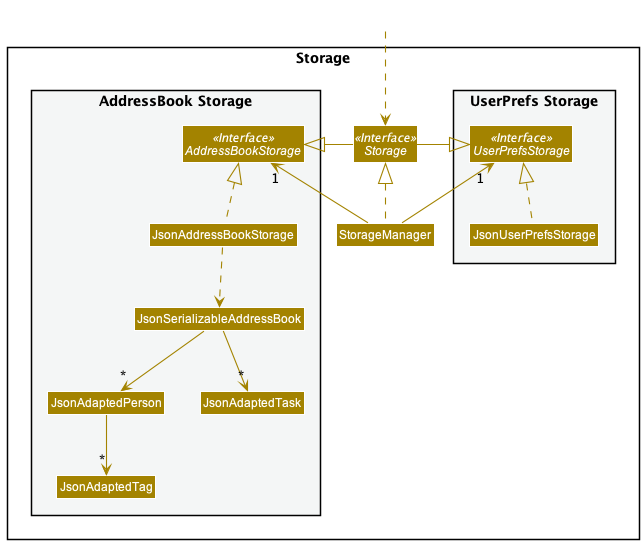
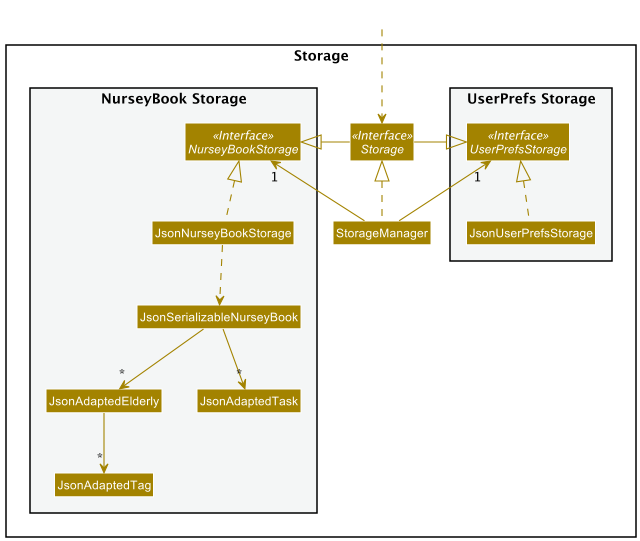
Update DG diagrams

Changed region(s): [[0.0, 0.0591, 1.0, 1.0]]

diff --git a/src/main/java/nurseybook/model/task/Task.java b/src/main/java/nurseybook/model/task/Task.java
@@ -8,8 +8,6 @@ import java.util.Collections;
 import java.util.HashSet;
 import java.util.Set;
 
-import nurseybook.model.NurseyBook;
-import nurseybook.model.person.Elderly;
 import nurseybook.model.person.Name;
 import nurseybook.model.task.Recurrence.RecurrenceType;
 
@@ -262,20 +260,6 @@ public abstract class Task implements Comparable<Task> {
     }
 
     /**
-     * Returns set of elderly objects related to this task.
-     *
-     * @param book                      nursey book that stores this task
-     * @return                          task description
-     */
-    public Set<Elderly> getRelatedPeople(NurseyBook book) {
-        Set<Elderly> relatedPeople = new HashSet<>();
-        for (Name name: relatedNames) {
-            relatedPeople.add(book.getElderly(name));
-        }
-        return relatedPeople;
-    }
-
-    /**
      * Returns true if the task is past the current date and time, and it is a recurring task.
      *
      * @return true if its past and is a recurring task
@@ -336,9 +320,7 @@ public abstract class Task implements Comparable<Task> {
                 .append(getDateTime());
         if (!relatedNames.isEmpty()) {
             builder.append("; People: ");
-            relatedNames.forEach(name -> {
-                builder.append(name + " ");
-            });
+            relatedNames.forEach(name -> builder.append(name + " "));
         }
         return builder.toString();
     }

diff --git a/docs/DeveloperGuide.md b/docs/DeveloperGuide.md
@@ -136,7 +136,9 @@ which is also exposed to outsiders as an unmodifiable `ObservableList<Task>`.
 More details regarding `Person`, `Elderly`, `Nok` and `Task` objects.
 
 
-<div markdown="span" class="alert alert-info">:information_source: **Note:** An alternative (arguably, a more OOP) model is given below. It has a `Tag` list in the `AddressBook`, which `Elderly` references. This allows `AddressBook` to only require one `Tag` object per unique tag, instead of each `Elderly` needing their own `Tag` objects.<br>
+<div markdown="span" class="alert alert-info">
+
+:information_source: **Note:** An alternative (arguably, a more OOP) model is given below. It has a `Tag` list in the `AddressBook`, which `Elderly` references. This allows `AddressBook` to only require one `Tag` object per unique tag, instead of each `Elderly` needing their own `Tag` objects.<br>
 
 <img src="images/BetterModelClassDiagram.png" width="250" />
 
@@ -150,8 +152,8 @@ More details regarding `Person`, `Elderly`, `Nok` and `Task` objects.
 <img src="images/StorageClassDiagram.png" width="550" />
 
 The `Storage` component,
-* can save both address book data and user preference data in json format, and read them back into corresponding objects.
-* inherits from both `AddressBookStorage` and `UserPrefStorage`, which means it can be treated as either one (if only the functionality of only one is needed).
+* can save both NurseyBook data and user preference data in json format, and read them back into corresponding objects.
+* inherits from both `NurseyBookStorage` and `UserPrefStorage`, which means it can be treated as either one (if only the functionality of only one is needed).
 * depends on some classes in the `Model` component (because the `Storage` component's job is to save/retrieve objects that belong to the `Model`)
 
 ### Common classes
@@ -248,6 +250,19 @@ If a user does not specify `Recurrence` when adding a new `Task`, it will defaul
 
 #### Implementation
 
+The logic for handling overdue and recurring tasks are handled in ModelManager#updateFilteredTaskList.
+
+```     java
+@Override
+public void updateFilteredTaskList(Predicate<Task> predicate) {
+    requireNonNull(predicate);
+    updateOverdueTaskList();
+    updateNotOverdueTaskList();
+    updateDateRecurringTaskList();
+    filteredTasks.setPredicate(predicate);
+}
+```
+
 Listed below are some situations and corresponding implementations where the overdue `Status`, and `DateTime` might be changed based on either a manual edit of the `Task` details or the passing of time.
 
 1. `DateTime` of non-recurring `Task` has passed current `DateTime`
@@ -255,7 +270,7 @@ Listed below are some situations and corresponding implementations where the ove
 2. `DateTime` of recurring `Task` has passed current `DateTime`
   - Update old `DateTime` to new `DateTime` according to its `Recurrence` type.
   - Mark `Status#isDone` to `False`
-  - Status#isOverdue remains 'False'
+  - Status#isOverdue remains `False`
 3. User edits non-recurring `Task` with a passed `DateTime` to a future `DateTime`
   - Mark `Status#isOverdue` to `False`
 4. User edits non-recurring `Task` with a future `DateTime` to a passed `DateTime`
@@ -568,7 +583,7 @@ Priorities: High (must have) - `* * *`, Medium (nice to have) - `* *`, Low (unli
     * 3a1. NurseyBook shows an error message.
 
       Use case resumes at step 2.
-
+    
 
 **UC2: Update an elderly’s details**
 
@@ -590,6 +605,12 @@ Priorities: High (must have) - `* * *`, Medium (nice to have) - `* *`, Low (unli
 * 3a. The given index is invalid.
 
     * 3a1. NurseyBook shows an error message.
+
+      Use case resumes at step 2.
+
+* 3b. The elderly's name already exists in the elderly database.
+
+    * 3b1. NurseyBook shows an error message.
 
       Use case resumes at step 2.
 
@@ -666,7 +687,7 @@ Priorities: High (must have) - `* * *`, Medium (nice to have) - `* *`, Low (unli
 
 **MSS**
 
-1.  User requests to list tasks
+1.  User requests to list tasks (that the user has to do)
 2.  NurseyBook shows a list of tasks
 3.  User requests to delete a specific task in the list
 4.  NurseyBook deletes the task
@@ -726,6 +747,39 @@ Priorities: High (must have) - `* * *`, Medium (nice to have) - `* *`, Low (unli
   Use case ends.
 
 * *a. At any time, the user requests to view help.
+
+
+**UC9: Updates a task's details**
+
+**MSS**
+
+1. User requests to list tasks
+2. NurseyBook shows a list of tasks
+3. User requests to edit a specific task in the list
+4. NurseyBook edits the task
+
+   Use case ends.
+
+**Extensions**
+
+* 2a. The list of tasks is empty.
+
+  Use case ends.
+
+* 3a. The names of the elderly entered are not in the elderly database. 
+    * 3a1. NurseyBook shows an error message.
+
+      Use case resumes at step 2.
+
+* 3b. The given index is invalid.
+    * 3b1. NurseyBook shows an error message.
+
+      Use case resumes at step 2.
+
+* 3c. The `desc`, `dateTime` and `relatedNames` fields of the task entered are the same as that of the task to be edited.
+    * 3c1. NurseyBook shows an error message.
+
+      Use case resumes at step 2.
 
 
    *{More to be added}*
